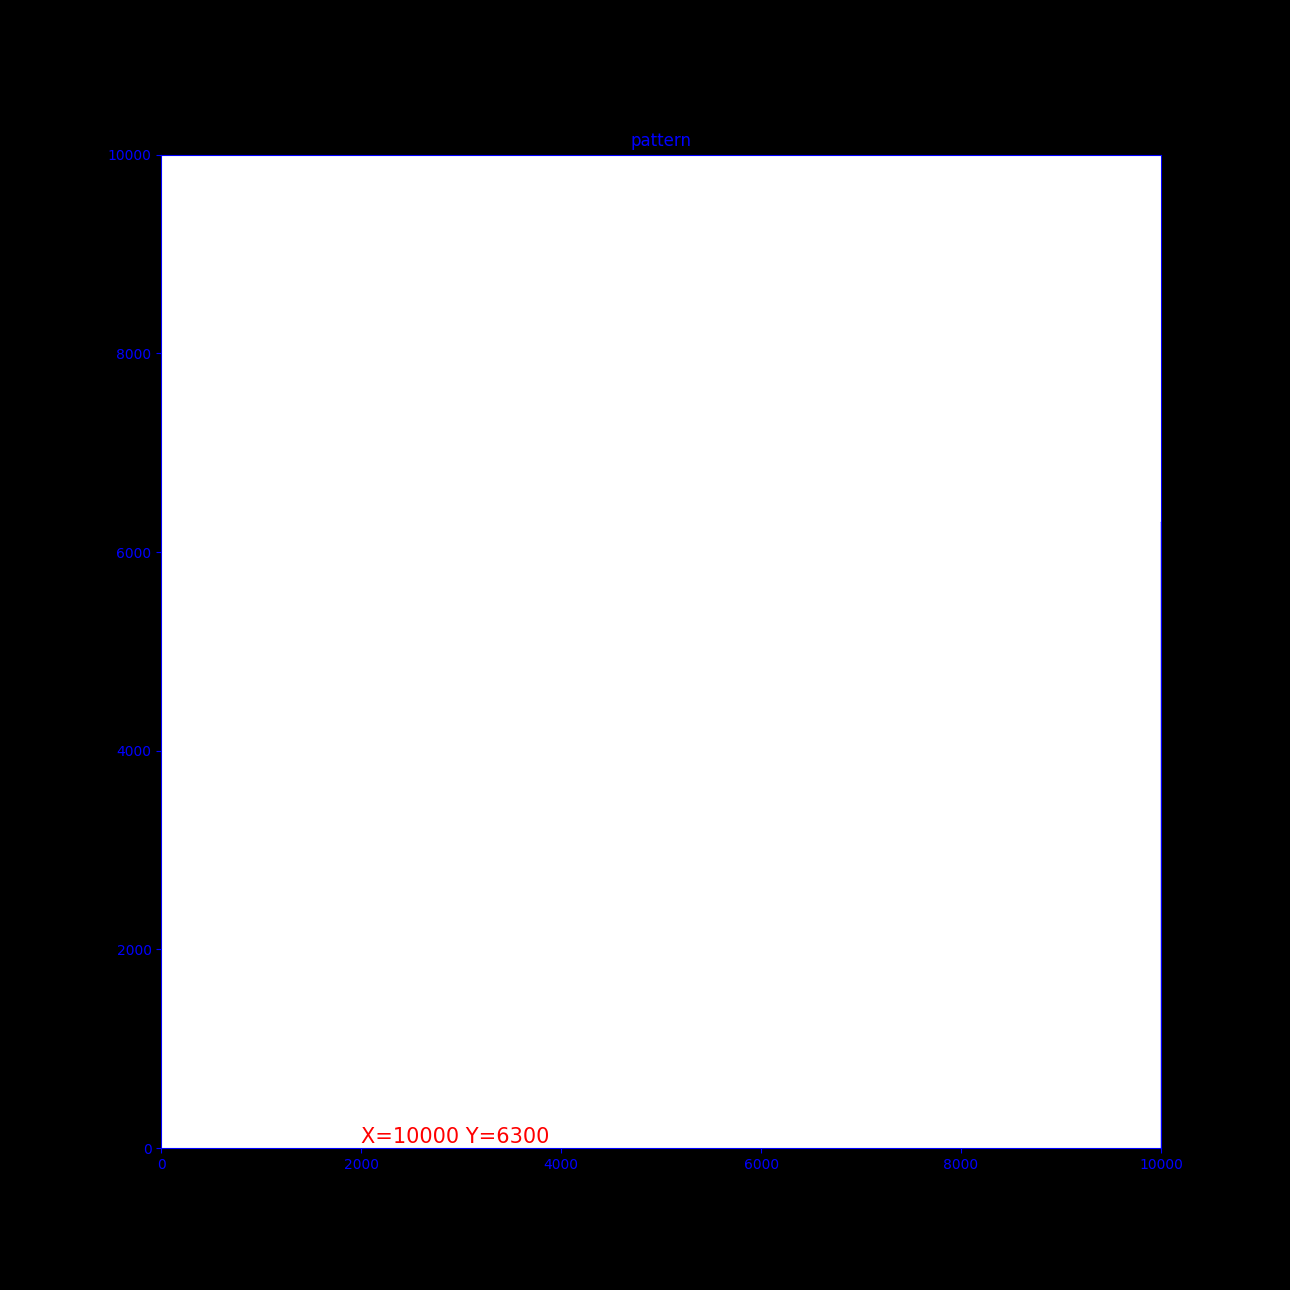
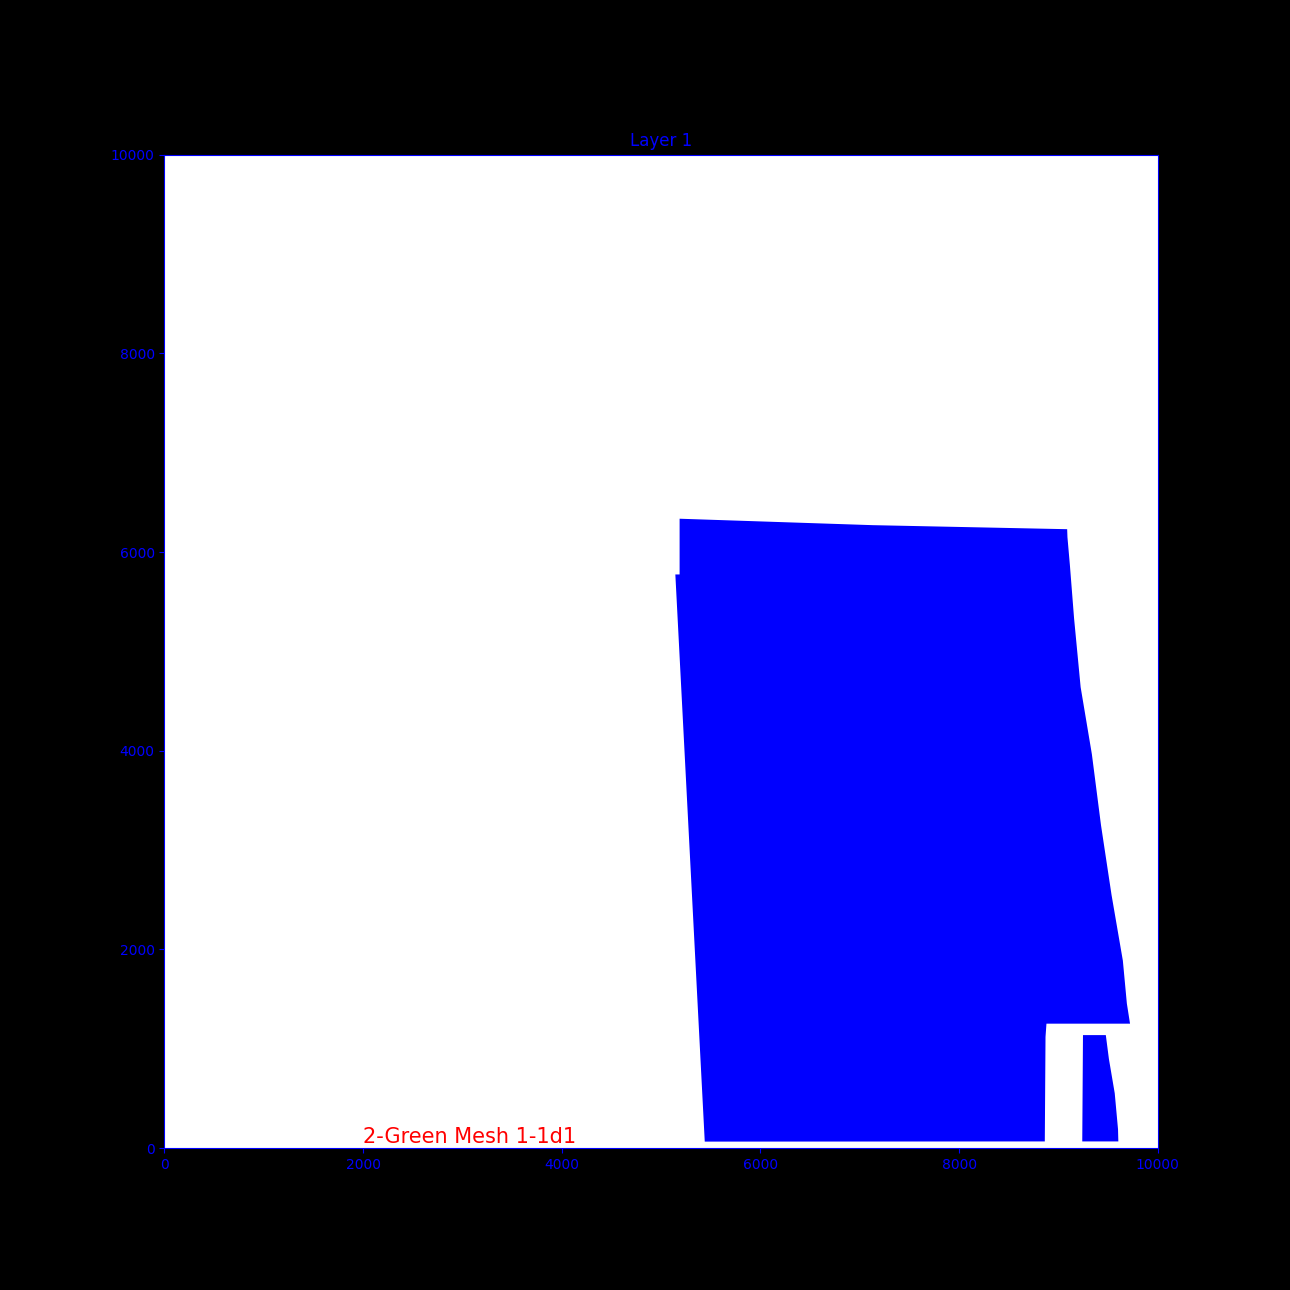
new version6

diff --git a/dxf_ProcessKit.py b/dxf_ProcessKit.py
@@ -716,7 +716,7 @@ def read_and_plot_PSv2(file_path,name,image_size,Left_centering,Top_centering,Ax
 
     print('total layers = ',layer_qty)
 
-def read_and_plot_PSv3(file_path,name,image_size,Left_centering,Top_centering,Axis_Limit,scale_mode,background_color,layer_color,close_image,Destination_path,Axis_Limit_Y,filling,reorder_points):
+def read_and_plot_PSv3(file_path,name,image_size,Left_centering,Top_centering,Axis_Limit,scale_mode,background_color,layer_color,close_image,Destination_path,Axis_Limit_Y,filling,reorder_points,d1,d2):
     ### Last official, this is PSV2 with entities filling X-Y as they appear in the drawing
     import ezdxf
     import pandas as pd
@@ -809,24 +809,23 @@ def read_and_plot_PSv3(file_path,name,image_size,Left_centering,Top_centering,Ax
     Layer_Names = [x for x in Layer_Names if not (x in seen or seen.add(x))]
 
     #####....................................SHIFT POSITION .............................
-    #### BRING TO THE ORIGIN
-    cx1=min(x)
-    cy1=min(y)
-    x = [i -cx1 for i in x]  # BRING X VALUES TO THE ORIGIN
-    y = [i -cy1 for i in y]  # BRING Y VALUES TO THE ORIGIN
-    x_omega = [i -cx1 for i in x_omega]  # BRING X VALUES TO THE ORIGIN
-    y_omega = [i -cy1 for i in y_omega]  # BRING Y VALUES TO THE ORIGIN
+    ###### be very careful if using this, all layers must have same origin of coordenates
+    # #### BRING TO THE ORIGIN
+    # cx1=min(x)
+    # cy1=min(y)
+    # x = [i -cx1 for i in x]  # BRING X VALUES TO THE ORIGIN
+    # y = [i -cy1 for i in y]  # BRING Y VALUES TO THE ORIGIN
+    #
+    #
+    #
+    # #### APPLY THE OFFSET (DESFASE)
+    # x_lim=10000
+    # y_lim=4400
+    # cx=x_lim-max(x)
+    # cy=y_lim-max(y)
+    # x = [i + cx for i in x]  # apply offset desfase
+    # y = [i + cy for i in y]  # apply offset desfase
 
-
-    #### APPLY THE OFFSET (DESFASE)
-    x_lim=9000
-    y_lim=4900
-    cx=x_lim-max(x)
-    cy=y_lim-max(y)
-    x = [i + cx for i in x]  # apply offset desfase
-    y = [i + cy for i in y]  # apply offset desfase
-    x_omega = [i + cx for i in x_omega]  # apply offset desfase
-    y_omega = [i + cy for i in y_omega]  # apply offset desfase
     ########..............................................................................................................
 
     # .....LOAD THE TABLE CALIBRATION DATA.......................................................................................................
@@ -876,8 +875,9 @@ def read_and_plot_PSv3(file_path,name,image_size,Left_centering,Top_centering,Ax
         # Plotting the polygon
         plt.figure(figsize=(image_size, image_size))
         plt.scatter(x_layer, y_layer, marker='o', s=1, color='blue')  #  s=0.1  'bo-' means blue circles connected by lines
-        if ("Omega" not in Layer_i) and (filling ==1) :
-         plt.fill(x_layer, y_layer, facecolor=layer_color, alpha=1)  # Fill the polygon
+        # if ("Omega" not in Layer_i) and (filling ==1) :
+        #  plt.fill(x_layer, y_layer, facecolor=layer_color, alpha=1)  # Fill the polygon
+        plt.fill(x_layer, y_layer, facecolor=layer_color, alpha=1)  # Fill the polygon
         title = 'Layer '+str(layer_qty)
         plt.title(title)
         plt.xlim(0, Axis_Limit_x)  # Set x-axis limit from 0 to 4
@@ -916,8 +916,8 @@ def read_and_plot_PSv3(file_path,name,image_size,Left_centering,Top_centering,Ax
 
     print('total layers = ',layer_qty)
 
-def read_and_plot_PSv3_doubles(file_path,name,image_size,Left_centering,Top_centering,Axis_Limit,scale_mode,background_color,layer_color,close_image,Destination_path,Axis_Limit_Y,filling,reorder_points):
-    ### this is for combining shapes into the same plot
+def read_and_plot_PSv3_doubles(file_path,name,image_size,Left_centering,Top_centering,Axis_Limit,scale_mode,background_color,layer_color,close_image,Destination_path,Axis_Limit_Y,filling,reorder_points,d1,d2):
+    ### this is for combining shapes into the same plot WITH MIXED REORDERED AND NOT-REORDERED LAYERS
     ### this works looking for the Layers inside the dxf with names that end in "d1" and "d2", and it joins them into 1 single slide
     ###  if it gives trouble try re-ordering the points
     import ezdxf
@@ -1012,24 +1012,23 @@ def read_and_plot_PSv3_doubles(file_path,name,image_size,Left_centering,Top_cent
     Layer_Names = [x for x in Layer_Names if not (x in seen or seen.add(x))]
 
     #####....................................SHIFT POSITION .............................
+    ###### be very careful if using this, all layers must have same origin of coordenates
     #### BRING TO THE ORIGIN
-    cx1=min(x)
-    cy1=min(y)
-    x = [i -cx1 for i in x]  # BRING X VALUES TO THE ORIGIN
-    y = [i -cy1 for i in y]  # BRING Y VALUES TO THE ORIGIN
-    x_omega = [i -cx1 for i in x_omega]  # BRING X VALUES TO THE ORIGIN
-    y_omega = [i -cy1 for i in y_omega]  # BRING Y VALUES TO THE ORIGIN
+    # cx1=min(x)
+    # cy1=min(y)
+    # x = [i -cx1 for i in x]  # BRING X VALUES TO THE ORIGIN
+    # y = [i -cy1 for i in y]  # BRING Y VALUES TO THE ORIGIN
 
 
-    #### APPLY THE OFFSET (DESFASE)
-    x_lim=9000
-    y_lim=4900
-    cx=x_lim-max(x)
-    cy=y_lim-max(y)
-    x = [i + cx for i in x]  # apply offset desfase
-    y = [i + cy for i in y]  # apply offset desfase
-    x_omega = [i + cx for i in x_omega]  # apply offset desfase
-    y_omega = [i + cy for i in y_omega]  # apply offset desfase
+
+    # #### APPLY THE OFFSET (DESFASE)
+    # x_lim=9000
+    # y_lim=4900
+    # cx=x_lim-max(x)
+    # cy=y_lim-max(y)
+    # x = [i + cx for i in x]  # apply offset desfase
+    # y = [i + cy for i in y]  # apply offset desfase
+
     ########..............................................................................................................
 
     # .....LOAD THE TABLE CALIBRATION DATA.......................................................................................................
@@ -1083,13 +1082,16 @@ def read_and_plot_PSv3_doubles(file_path,name,image_size,Left_centering,Top_cent
             poly2.append((x[i], y[i]))
 
     if (reorder_points == 1):   #### this if you need to re-order points
-        x_layer_1, y_layer_1 = polygon_sorter(x_layer_1, y_layer_1)
-        x_layer_2, y_layer_2 = polygon_sorter(x_layer_2, y_layer_2)
-        poly1=[]
-        poly2=[]
-        for i in range(0, len(x_layer_1)):
-            poly1.append((x_layer_1[i], y_layer_1[i]))
-            poly2.append((x_layer_2[i], y_layer_2[i]))
+        if d1==1:
+            x_layer_1, y_layer_1 = polygon_sorter(x_layer_1, y_layer_1)
+            poly1=[]
+            for i in range(0, len(x_layer_1)):
+                poly1.append((x_layer_1[i], y_layer_1[i]))
+        if d2==1:
+            x_layer_2, y_layer_2 = polygon_sorter(x_layer_2, y_layer_2)
+            poly2=[]
+            for i in range(0, len(x_layer_2)):
+                poly2.append((x_layer_2[i], y_layer_2[i]))
 
     Layer_Name_plot = layer_name
     layer_qty = layer_qty + 1
@@ -1149,9 +1151,11 @@ Axis_Limit_Y=10000  # ONLY FOR V19 and following,  10000
 background_color = 'white'
 layer_color = 'blue'
 close_image = 1  # 1- close all images, 0- open all images
-scale_mode = 0  # 1-apply scale, 0- no scale
+scale_mode = 1  # 1-apply scale, 0- no scale
 filling=1     # 1- fill the polygons      , 0 - just scatter plot
 reorder_points=1   # 1- reorder points to guess polygon,   0- no reorder
+d1=1    ### reorder layer d1 =1  ONLY FOR DOUBLES CODE
+d2=1    ### reorder layer d2 =1  ONLY FOR DOUBLES CODE
 
 
 import os
@@ -1167,6 +1171,6 @@ for name in DXF_Names:
     dxf_file = f"{Origin_path}\{name}"
     #print(name)
     #print(dxf_file)     ### LAST OFFICIAL  PSV3
-    read_and_plot_PSv3_doubles(dxf_file, name, image_size, Left_centering, Top_centering, Axis_Limit, scale_mode, background_color, layer_color, close_image,Destination_path,Axis_Limit_Y,filling,reorder_points)
+    read_and_plot_PSv3_doubles(dxf_file, name, image_size, Left_centering, Top_centering, Axis_Limit, scale_mode, background_color, layer_color, close_image,Destination_path,Axis_Limit_Y,filling,reorder_points,d1,d2)
     print(name+' fully converted')
 print('All files converted')

diff --git a/zLaser_rc.py b/zLaser_rc.py
@@ -5,6 +5,21 @@ def Laser_remote_v0():
 
     import sys
     import time
+
+
+
+
+
+
+
+
+
+
+
+
+
+
+
     import zlp
     from thriftpy2.thrift import TException
 
@@ -536,10 +551,10 @@ def Laser_remote_v5(coordinates_name,x_name_offset,y_name_offset, letter_size):
 
             ans = input("\n SIGUIENTE?   y/n")
 
-            if ans=="e":
+            if ans=="e" or ans=="E":
                 previous_group_idx = current_group_idx
                 current_group_idx = (current_group_idx + 1) % len(top_level_groups)
-            elif ans=="d":
+            elif ans=="d" or ans=="D":
                 previous_group_idx = current_group_idx
                 current_group_idx = (current_group_idx - 1) % len(top_level_groups)
             elif ans == "n":
@@ -557,3 +572,12 @@ def Laser_remote_v5(coordinates_name,x_name_offset,y_name_offset, letter_size):
 
 
 
+def call_remote():
+    coordinates_name = "Table 1"
+    x_name_offset = 1000
+    y_name_offset = 500
+    letter_size = 30
+
+    # Laser_remote_v0()
+    ####  v3 last official
+    Laser_remote_v5(coordinates_name, x_name_offset, y_name_offset, letter_size)

diff --git a/ImageTester.py b/ImageTester.py
@@ -6,7 +6,7 @@ client = vision.ImageAnnotatorClient()
 PathSource=r"C:\Users\Juan Pablo Lopez\PycharmProjects\ProjectJP\ImageTester"
 PhotoNames=os.listdir(PathSource)
 count=0
-FinalLocation=["Inicio"]
+Text_list=["Inicio"]
 for Name in PhotoNames:
    PathPhoto = f"{PathSource}\{Name}"
    # This is where the photo is processed with AI VISION to get the extracted text
@@ -20,7 +20,7 @@ for Name in PhotoNames:
    count=count+1
    print("Image number",count)
    print(ExtractedText)
-   FinalLocation.append(ExtractedText)
+   Text_list.append(ExtractedText)
 
 print("executed succesfully")
-print(FinalLocation)
+print(Text_list)

diff --git a/zLaser_call.py b/zLaser_call.py
@@ -1,10 +1,97 @@
 from zLaser_rc import *
+call_remote()
 
-coordinates_name="Table 1"
-x_name_offset=1500
-y_name_offset=500
-letter_size=100
 
-#Laser_remote_v0()
-Laser_remote_v3(coordinates_name,x_name_offset,y_name_offset, letter_size)
+
+
+
+
+
+
+
+
+
+
+
+
+
+
+
+
+
+
+
+
+
+
+
+
+
+
+
+
+
+
+
+
+
+
+
+
+
+
+
+
+
+
+
+
+
+
+
+
+
+
+
+
+
+
+
+
+
+
+
+
+
+
+
+
+
+
+
+
+
+
+
+
+
+
+
+
+
+
+
+
+
+
+
+
+
+
+
+
+
+
+
+
 
